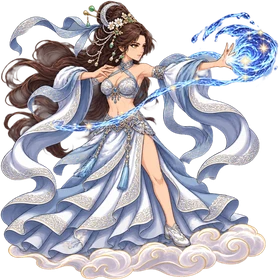
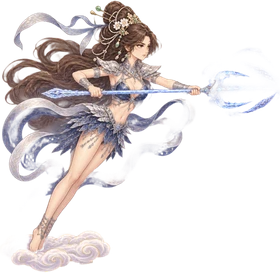
그림: 나린 각성 일러스트 aw2·게임 그림 aw2p(물의 삼지창)
Claude-Session: https://claude.ai/code/session_01X3WCR5nTXLkTaQuYbPMPiQ

diff --git a/game-design/art/나린각성/README.md b/game-design/art/나린각성/README.md
@@ -3,3 +3,5 @@
 - `N1_trident`: 원본 한 장 고쳐 그리기. job 7056e9ec-2438-48d8-b37c-d873067e6067 — 검토 중
 - 사용자 판정(N1): 디자인은 괜찮음, 자세를 다르게
 - `N2_thrust`: 호수 위를 낮게 날며 두 손으로 삼지창을 오른쪽으로 찌름(게임 진행 방향). 참고 = 원본(그림체·얼굴) + 원본 몸 부분(156e26fe, 몸매만) + N1(옷·창). job 90f23922-a8c8-427b-801a-aaecc6409316 — 검토 중
+- 사용자 판정(N2): 확정 → 각성 순간 일러스트 `../게임용/aw2.webp`
+- 게임 그림 `../게임용/aw2p.webp`(280px)/`aw2p_hi.webp`: 첫 참고 원본 게임 그림 hp2n, 옷·창 N2. 오른쪽 보며 두 손으로 삼지창 겨눔, 구름. 1차(c3b04cbe)는 긴 치마로 나와 버림. job 4ca391ba-2bb4-433b-8939-e38a7c00131e, 배경 제거 f9d8197c + 구름은 원본 픽셀로 살림
